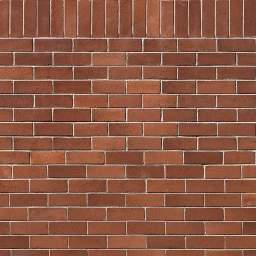
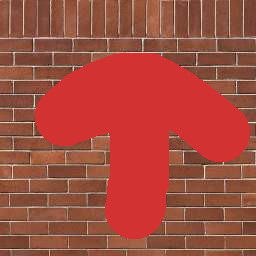
working on getting cube correctly displayed

diff --git a/public/lib/entity-manager.js b/public/lib/entity-manager.js
@@ -1,0 +1,2 @@
+!function(t,n){"object"==typeof exports&&"undefined"!=typeof module?module.exports=n():"function"==typeof define&&define.amd?define(n):t.ensy=n()}(this,function(){"use strict";function t(n){if(null==n||"object"!=(void 0===n?"undefined":e(n)))return n;var o=void 0;if(n instanceof Date)return o=new Date,o.setTime(n.getTime()),o;if(n instanceof Array){o=[];for(var i=0,r=n.length;i<r;i++)o[i]=t(n[i]);return o}if(n instanceof Object){o={};for(var s in n)n.hasOwnProperty(s)&&(o[s]=t(n[s]));return o}}function n(t){return t&&"[object Function]"==={}.toString.call(t)}var e="function"==typeof Symbol&&"symbol"==typeof Symbol.iterator?function(t){return typeof t}:function(t){return t&&"function"==typeof Symbol&&t.constructor===Symbol&&t!==Symbol.prototype?"symbol":typeof t},o=function(t,n){if(!(t instanceof n))throw new TypeError("Cannot call a class as a function")},i=function(){function t(t,n){for(var e=0;e<n.length;e++){var o=n[e];o.enumerable=o.enumerable||!1,o.configurable=!0,"value"in o&&(o.writable=!0),Object.defineProperty(t,o.key,o)}}return function(n,e,o){return e&&t(n.prototype,e),o&&t(n,o),n}}();return function(){function e(t){o(this,e),this.listener=null,t&&n(t.emit)&&(this.listener=t),this.entities=[],this.components={},this.assemblages={},this.entityComponentData={},this.processors=[],this.uid=0}return i(e,[{key:"getUid",value:function(){return this.uid++}},{key:"createEntity",value:function(t,n){return void 0===n||null===n?n=this.getUid():n>this.uid&&(this.uid=n),this.addComponentsToEntity(t,n),this.entities.includes(n)||this.entities.push(n),this.listener&&this.listener.emit("entityCreated",n),n}},{key:"removeEntity",value:function(t){for(var n in this.entityComponentData)this.entityComponentData.hasOwnProperty(n)&&this.entityComponentData[n][t]&&delete this.entityComponentData[n][t];return this.entities.splice(this.entities.indexOf(t),1),this.listener&&this.listener.emit("entityCreated",t),this}},{key:"addComponent",value:function(t,n){return this.components[t]=n,this}},{key:"removeComponent",value:function(t){return delete this.components[t],delete this.entityComponentData[t],this}},{key:"getComponentsList",value:function(){return Object.keys(this.components)}},{key:"addComponentsToEntity",value:function(n,e){var o=this,i=this;return n.forEach(function(t){if(!o.components[t])throw new Error("Trying to use unknown component: "+t)}),n.forEach(function(n){o.entityComponentData[n]||(o.entityComponentData[n]={});var r=null;o.listener?(r={},function(n,o){var r=t(i.components[o].state);for(var s in r)r.hasOwnProperty(s)&&function(t){Object.defineProperty(n,t,{enumerable:!0,get:function(){return r[t]},set:function(n){r[t]=n,i.listener.emit("entityComponentUpdated",e,o)}})}(s)}(r,n)):r=t(i.components[n].state),r.__id=e,o.entityComponentData[n][e]=r,o.listener&&o.listener.emit("entityComponentAdded",e,n)}),this}},{key:"removeComponentsFromEntity",value:function(t,n){var e=this;return t.forEach(function(t){if(!e.components[t])throw new Error("Trying to use unknown component: "+t)}),t.forEach(function(t){e.entityComponentData[t]&&e.entityComponentData[t][n]&&(delete e.entityComponentData[t][n],e.listener&&e.listener.emit("entityComponentRemoved",n,t))}),this}},{key:"getComponentDataForEntity",value:function(t,n){if(!(t in this.components))throw new Error("Trying to use unknown component: "+t);if(!this.entityComponentData.hasOwnProperty(t)||!this.entityComponentData[t].hasOwnProperty(n))throw new Error("No data for component "+t+" and entity "+n);return this.entityComponentData[t][n]}},{key:"updateComponentDataForEntity",value:function(t,n,e){var o=this.getComponentDataForEntity(t,n);for(var i in e)e.hasOwnProperty(i)&&o.hasOwnProperty(i)&&(o[i]=e[i]);return this}},{key:"getComponentsData",value:function(t){if(!(t in this.components))throw new Error("Trying to use unknown component: "+t);if(!this.entityComponentData.hasOwnProperty(t))return[];var n=this.entityComponentData[t];return Object.keys(n).map(function(t){return n[t]})}},{key:"entityHasComponent",value:function(t,n){return n in this.components&&(this.entityComponentData.hasOwnProperty(n)&&this.entityComponentData[n].hasOwnProperty(t))}},{key:"addAssemblage",value:function(t,n){return this.assemblages[t]=n,this}},{key:"removeAssemblage",value:function(t){return delete this.assemblages[t],this}},{key:"createEntityFromAssemblage",value:function(t){if(!(t in this.assemblages))throw new Error("Trying to use unknown assemblage: "+t);var n=this.assemblages[t],e=this.createEntity(n.components);for(var o in n.initialState)if(n.initialState.hasOwnProperty(o)){var i=n.initialState[o];this.updateComponentDataForEntity(o,e,i)}return e}},{key:"addProcessor",value:function(t){return this.processors.push(t),this}},{key:"removeProcessor",value:function(t){return this.processors.splice(this.processors.indexOf(t),1),this}},{key:"update",value:function(t){return this.processors.forEach(function(n){return n.update(t)}),this}}]),e}()});
[1 lines of base64/hex data omitted]

diff --git a/public/main.js b/public/main.js
@@ -1,17 +1,17 @@
-require(["MeshUtils", "MeshCache", "GreedyMesh", "Materials", "GamePad"], function(MeshUtils, MeshCache, GreedyMesh, Materials, GamePad) {
-	
+require(["MeshUtils", "MeshCache", "GreedyMesh", "Materials", "GamePad", "lib/entity-manager"], function(MeshUtils, MeshCache, GreedyMesh, Materials, GamePad, EntityManager) {
+
 	var SIZE_I = 24;
 	var SIZE_J = 32;
 	var SIZE = 5;
 	var FRICTION = 0.4;
 	var ROT_SPEED = 0.03, SPEED = 0.5;
-	
+
 	var container, canvas, scene, engine, player, character, angle = 0, speed = 0, ang_speed = 0, angle = 0, _mode = "off";
-	
+
 	var BIRDSEYE = 0;
 
 	canvas = document.querySelector("#renderCanvas");
-	
+
 	var addControls = function(){
 		this.gamePad = new GamePad("zone_joystick");
 		this.gamePad.update.add({
@@ -52,6 +52,14 @@ require(["MeshUtils", "MeshCache", "GreedyMesh", "Materials", "GamePad"], functi
 		scene.enablePhysics();
 		var light0 = new BABYLON.DirectionalLight("Omni", new BABYLON.Vector3(-2, -5, 2), scene);
 		var light1 = new BABYLON.PointLight("Omni", new BABYLON.Vector3(2, -5, -2), scene);
+
+		var light2 = new BABYLON.DirectionalLight("Dir0", new BABYLON.Vector3(0, -1, 0), scene);
+		light2.position = new BABYLON.Vector3(0, 20, 0);
+		light2.diffuse = new BABYLON.Color3(1, 0, 0);
+		light2.specular = new BABYLON.Color3(1, 1, 1);
+
+		var light3 = new BABYLON.DirectionalLight("Omni", new BABYLON.Vector3(2, 5, -2), scene);
+
 		camera = new BABYLON.FreeCamera("FreeCamera", new BABYLON.Vector3(SIZE_I*SIZE/2, 250, SIZE_J*SIZE/2), scene);
 		scene.gravity = new BABYLON.Vector3(0, 0, 0);
 		scene.collisionsEnabled = true;
@@ -69,7 +77,6 @@ require(["MeshUtils", "MeshCache", "GreedyMesh", "Materials", "GamePad"], functi
 		skyboxMaterial.diffuseColor = new BABYLON.Color3(0, 0, 0);
 		skyboxMaterial.specularColor = new BABYLON.Color3(0, 0, 0);
 		skybox.material = skyboxMaterial;
-			
 	};
 
 	var addGround = function(){
@@ -95,7 +102,7 @@ require(["MeshUtils", "MeshCache", "GreedyMesh", "Materials", "GamePad"], functi
 		}
 		player.moveWithCollisions(new BABYLON.Vector3(dx, 0, dz));
 	}
-	
+
 	var matchPlayer = function(){
 		camera.position = player.position.clone();
 		camera.rotationQuaternion = BABYLON.Quaternion.RotationAxis(new BABYLON.Vector3(0, 1, 0), angle);
@@ -124,7 +131,7 @@ require(["MeshUtils", "MeshCache", "GreedyMesh", "Materials", "GamePad"], functi
 		player.ellipsoid = new BABYLON.Vector3(SIZE/3, SIZE/3, SIZE/3);
 		player.setPhysicsState(BABYLON.PhysicsEngine.SphereImpostor, { mass: 0, restitution:0.5, friction:0.5 });
 	};
-	
+
 	var addCharacter = function(pos){
 		var y = -SIZE*1.5
 		var mat = new BABYLON.StandardMaterial("Mat", scene);
@@ -132,6 +139,7 @@ require(["MeshUtils", "MeshCache", "GreedyMesh", "Materials", "GamePad"], functi
 		mat.backFaceCulling = false;
 		var babylonPos = ijToBabylon(pos[0], pos[1]);
 		character = BABYLON.MeshBuilder.CreateBox("character", {height: SIZE, width:SIZE, depth:SIZE}, scene);
+		character.setPhysicsState(BABYLON.PhysicsEngine.BoxImpostor, { mass: 0, restitution:0.5, friction:0.5 });
 		character.material = mat;
 		character.checkCollisions = true;
 		character.position = new BABYLON.Vector3(babylonPos.x + SIZE/2, y, babylonPos.z - SIZE/2);
@@ -141,9 +149,55 @@ require(["MeshUtils", "MeshCache", "GreedyMesh", "Materials", "GamePad"], functi
 		if (character.intersectsMesh(player, false)) {
 			console.log("HIT");
 		}
-		if(character.intersectsMesh(container, false)){
+		if(player.intersectsMesh(container, false)){
 			console.log("HIT CHAR");
 		}
+	};
+
+	var addExtra = function(){
+		var babylonPos = ijToBabylon(10, 10);
+		/*var mat = Materials.getMultiMaterial(scene, "assets/brick.jpg", "assets/brick_rot.jpg");
+		var babylonPos = ijToBabylon(10, 10);
+		var uv = [
+			new BABYLON.Vector4(0, 0, 1, 1),
+			new BABYLON.Vector4(0, 0, 1, 1),
+			new BABYLON.Vector4(0, 0, 1, 1),
+			new BABYLON.Vector4(0, 0, 1, 1),
+			new BABYLON.Vector4(0, 0, 1, 1),
+			new BABYLON.Vector4(0, 0, 1, 1),
+			new BABYLON.Vector4(0, 0, 1, 1)
+		];
+		var extraBox = BABYLON.MeshBuilder.CreateBox("player", {height: SIZE, width:SIZE, depth:SIZE, faceUV:uv}, scene);
+		extraBox.material = mat;
+		var verticesCount = extraBox.getTotalVertices();
+		new BABYLON.SubMesh(0, 0, verticesCount, 0, 3, extraBox);
+		new BABYLON.SubMesh(1, 0, verticesCount, 3, 6, extraBox);
+		new BABYLON.SubMesh(2, 0, verticesCount, 6, 9, extraBox);
+		extraBox.position = new BABYLON.Vector3(babylonPos.x + SIZE/2, -SIZE*1.5, babylonPos.z - SIZE/2);
+		*/
+
+			var mat = new BABYLON.StandardMaterial("mat1", scene);
+		  var texture = new BABYLON.Texture("assets/bricks.png", scene);
+		  mat.diffuseTexture = texture;
+		  var faceUV = [
+		  	new BABYLON.Vector4(0/2, 0/2, 1/2, 1/2),
+		  	new BABYLON.Vector4(1/2, 1/2, 2/2, 2/2),
+		  	new BABYLON.Vector4(2/2, 2/2, 3/2, 3/2),
+		  	new BABYLON.Vector4(3/2, 3/2, 4/2, 4/2),
+		  	new BABYLON.Vector4(4/2, 4/2, 5/2, 5/2),
+		  	new BABYLON.Vector4(5/2, 5/2, 6/2, 6/2)
+		  ];
+
+		  var options = {
+		    width: SIZE,
+		    height: SIZE,
+		    depth: SIZE,
+		    faceUV: faceUV
+		  };
+		  var box = BABYLON.MeshBuilder.CreateBox('box', options, scene);
+		  box.material = mat;
+		  box.position = new BABYLON.Vector3(babylonPos.x + SIZE/2, -SIZE*1.5, babylonPos.z - SIZE/2);
+
 	};
 
 	var addBill = function(pos){
@@ -163,8 +217,10 @@ require(["MeshUtils", "MeshCache", "GreedyMesh", "Materials", "GamePad"], functi
 		mat.backFaceCulling = false
 		mat.freeze();
 		plane.parent = container;
-		plane.billboardMode = BABYLON.Mesh.BILLBOARDMODE_ALL;
+			plane.billboardMode = BABYLON.Mesh.BILLBOARDMODE_ALL;
 		plane.material = mat;
+		container.setPhysicsState(BABYLON.PhysicsEngine.BoxImpostor, { mass: 0, restitution:0.5, friction:0.5 });
+		console.log(container, player);
 	};
 
 	var addWalls = function(quads){
@@ -174,7 +230,7 @@ require(["MeshUtils", "MeshCache", "GreedyMesh", "Materials", "GamePad"], functi
 			var size = (quad[2] >= quad[3]) ? [quad[2], quad[3]] : [quad[3], quad[2]];
 			var wall = MeshCache.getFromCache(size, "brick");
 			if(quad[2] < quad[3]){
-				wall.rotation = new BABYLON.Vector3(0, Math.PI/2, 0);
+				//wall.rotation = new BABYLON.Vector3(0, Math.PI/2, 0);
 			}
 			wall.position.x = topLeft.x + (quad[1] + quad[2]/2)*SIZE;
 			wall.position.z = topLeft.z - (quad[0] + quad[3]/2)*SIZE;
@@ -186,10 +242,14 @@ require(["MeshUtils", "MeshCache", "GreedyMesh", "Materials", "GamePad"], functi
 		camera.rotation = new BABYLON.Vector3(Math.PI/2, 0 , 0);
 	};
 	engine = new BABYLON.Engine(canvas, false, null, false);
-	var img = MeshUtils.makeRnd(SIZE_I, SIZE_J, {rnd:0.005});
+	var img = MeshUtils.makeRnd(SIZE_I, SIZE_J, {rnd:0.000});
 	makeScene();
 	addControls();
+	
+
 	Materials.makeMaterials(scene);
+
+
 	var greedy = GreedyMesh.getBest(img);
 	MeshCache.setForDims(scene, greedy.dims, SIZE, "brick");
 	addWalls(greedy.quads);
@@ -199,11 +259,22 @@ require(["MeshUtils", "MeshCache", "GreedyMesh", "Materials", "GamePad"], functi
 	addGround();
 	addSky();
 	addBill(empty[2]);
+
+	addExtra();
+
+	container.physicsImpostor.registerOnPhysicsCollide(player.physicsImpostor, function(main, collided) {
+		console.log("BANG1");
+	});
+
+
+	character.physicsImpostor.registerOnPhysicsCollide(player.physicsImpostor, function(main, collided) {
+		console.log("BANG2");
+	});
 	if(BIRDSEYE){
 		birdsEye();
 	}
 
-	scene.debugLayer.show();
+	//scene.debugLayer.show();
 	engine.runRenderLoop(function () {
 		if(_mode !== "off"){
 			movePlayer();
@@ -227,7 +298,7 @@ require(["MeshUtils", "MeshCache", "GreedyMesh", "Materials", "GamePad"], functi
 	window.addEventListener("resize", function () {
 	   engine.resize();
 	});
-	
+
 	document.onkeydown = function(e){
 		if(e.which === 38){
 			// fd
@@ -252,22 +323,53 @@ require(["MeshUtils", "MeshCache", "GreedyMesh", "Materials", "GamePad"], functi
 			_mode = "on";
 		}
 	};
-	
+
 	document.onkeyup = function(){
 		speed = 0;
 		_mode = "off";
 	};
 
-	
+
+	var manager = new EntityManager();
+
+
+	var PlayerComponent = {
+	    name: 'Player',
+	    description: "The player's state",
+	    state: {
+	        life: 100,
+	        strength: 18,
+	        charisma: 3,
+	    }
+	};
+
+	var MessageComponent = {
+	    name: 'Message',
+	    description: "The message",
+	    state: {
+	        text:"HELLO THERE!!"
+	    }
+	};
+
+	var PossessionsComponent = {
+		name: 'Possessions',
+	    description: "The Possessions",
+	    state: {
+	        objects:[]
+	    }
+	};
+
+	console.log(manager);
+	manager.addComponent(PlayerComponent.name, PlayerComponent);
+	manager.addComponent(MessageComponent.name, MessageComponent);
+	manager.addComponent(PossessionsComponent.name, PossessionsComponent);
+	var playerId = manager.createEntity(['Player', 'Message', 'Possessions']);
+	var playerData = manager.getComponentDataForEntity('Player', playerId);
+	playerData.life = 80;
+	console.log(playerData);
+
+
+	var playerData2 = manager.getComponentDataForEntity('Possessions', playerId);
+	console.log(playerData2);
 });
-
-
-/*
-
-sphere.physicsImpostor.registerOnPhysicsCollide(ground.physicsImpostor, function(main, collided) {
-	    main.object.material.diffuseColor = new BABYLON.Color3(Math.random(), Math.random(), Math.random());
-	});
-
-
-*/
 

diff --git a/public/Materials.js b/public/Materials.js
@@ -1,7 +1,7 @@
 define([], function(){
-	
+
 	var Materials = {};
-	
+
 	Materials.makeMaterials = function(scene){
 		Materials.brickMaterial = new BABYLON.StandardMaterial("brickMaterial", scene);
 		Materials.brickMaterial.diffuseTexture = new BABYLON.Texture("assets/brick.jpg", scene);
@@ -11,6 +11,50 @@ define([], function(){
 		Materials.steelMaterial.diffuseTexture = new BABYLON.Texture("assets/steel.jpg", scene);
 		Materials.steelMaterial.backFaceCulling = false
 		Materials.steelMaterial.freeze();
+	};
+
+	Materials.getTextureFromCanvas = function(rect, color){
+		var canvas = document.createElement("canvas");
+		canvas.width = 256;
+		canvas.height = 256;
+		canvas.getContext("2d").fillStyle = "red";
+		canvas.getContext("2d").fillRect(20,20,150,100);
+		return new BABYLON.DynamicTexture("dynamic texture", canvas, scene, true);
+	};
+
+	Materials.getMultiMaterial = function(scene, image0, image1){
+		var text0 = new BABYLON.Texture(image0, scene);
+		var text1 = new BABYLON.Texture(image1, scene);
+
+		var boxMat_0 = new BABYLON.StandardMaterial('mat0', scene);
+		boxMat_0.diffuseTexture = text0;
+
+		var boxMat_1 = new BABYLON.StandardMaterial('mat1', scene);
+		boxMat_1.diffuseTexture = text1;
+
+		var boxMat_2 = new BABYLON.StandardMaterial('mat2', scene);
+		boxMat_2.diffuseTexture = text0;
+
+		var boxMat_3 = new BABYLON.StandardMaterial('mat3', scene);
+		boxMat_3.diffuseTexture = text1;
+
+		var boxMat_4 = new BABYLON.StandardMaterial('mat4', scene);
+		boxMat_4.diffuseTexture = text0;
+
+		var boxMat_5 = new BABYLON.StandardMaterial('mat5', scene);
+		boxMat_5.diffuseTexture = text1;
+
+		var boxMat_6 = new BABYLON.StandardMaterial('mat6', scene);
+		boxMat_6.diffuseTexture = text1;
+
+		var boxMat = new BABYLON.MultiMaterial('Box Multi Material', scene);
+		boxMat.subMaterials[0] = boxMat_0;
+		boxMat.subMaterials[1] = boxMat_1;
+		boxMat.subMaterials[2] = boxMat_2;
+		boxMat.subMaterials[3] = boxMat_3;
+		boxMat.subMaterials[4] = boxMat_4;
+		boxMat.subMaterials[5] = boxMat_5;
+		return boxMat;
 	};
 
 	return Materials;

diff --git a/public/MeshUtils.js b/public/MeshUtils.js
@@ -1,8 +1,8 @@
 define([], function(){
 	/* helper functions */
-	
+
 	var MeshUtils = {};
-	
+
 	MeshUtils.makeEmpty = function(SIZE_I, SIZE_J){
 		var a = [], _i, _j;
 		for(_i = 0; _i < SIZE_I; _i++){
@@ -53,7 +53,7 @@ define([], function(){
 		}
 		return a;
 	};
-	
+
 	MeshUtils.setUVScale = function(mesh, uScale, vScale) {
 		var i, UVs = mesh.getVerticesData(BABYLON.VertexBuffer.UVKind), len = UVs.length;
 		if (uScale !== 1) {

diff --git a/public/index.html b/public/index.html
@@ -8,7 +8,7 @@
         <script src='lib/nipplejs.min.js'></script>
 		<script src='lib/minirunner.js'></script>
 		<script src='lib/keydrown.js'></script>
-       
+
         <style>
             #renderCanvas{
                 width:90%;
